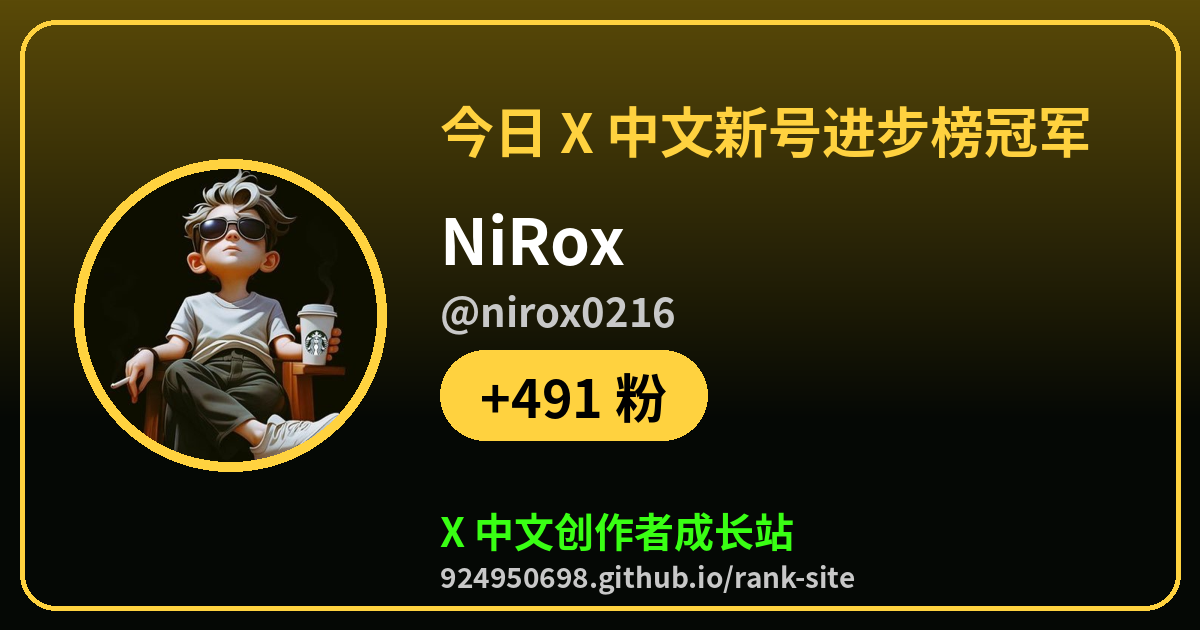
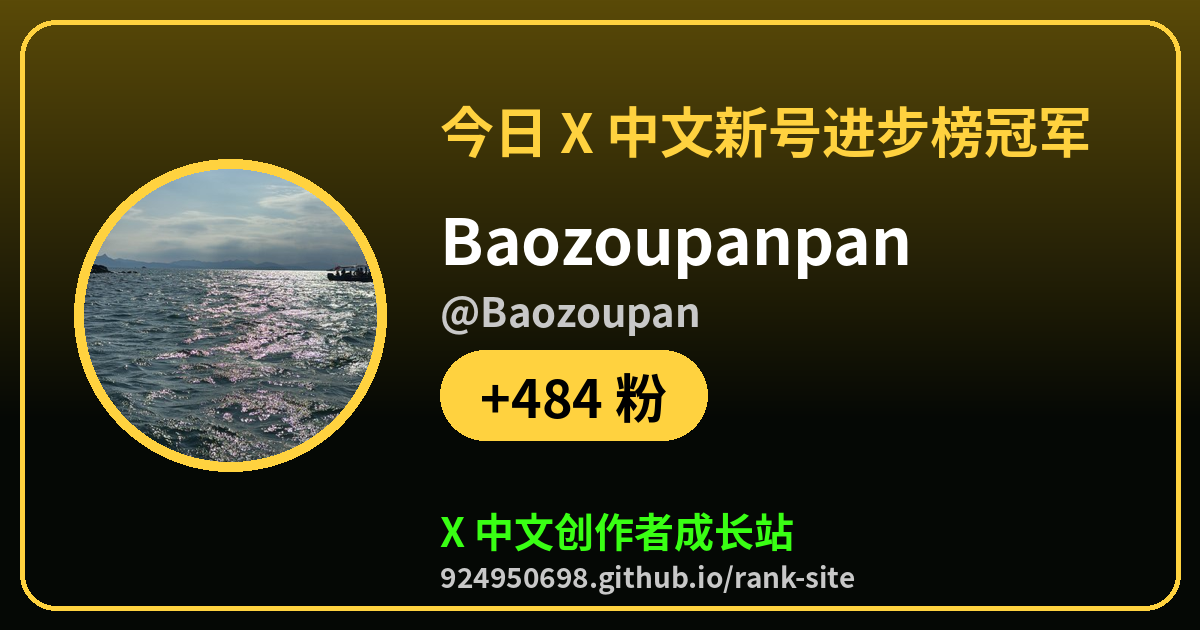
champ: 2026-10-18 16:30 CST

diff --git a/champ/rising.html b/champ/rising.html
@@ -1,7 +1,7 @@
 <!doctype html><html lang="zh-CN"><head><meta charset="utf-8"><meta name="viewport" content="width=device-width,initial-scale=1">
-<title>今日 X 中文新号进步榜冠军：NiRox（@nirox0216）</title><meta name="description" content="+491 粉，来看看今天谁在爆，你排第几">
-<meta property="og:type" content="website"><meta property="og:url" content="https://924950698.github.io/rank-site/champ/rising.html"><meta property="og:title" content="今日 X 中文新号进步榜冠军：NiRox（@nirox0216）"><meta property="og:description" content="+491 粉，来看看今天谁在爆，你排第几">
-<meta property="og:image" content="https://924950698.github.io/rank-site/champ/rising.png?v=20261018T0704"><meta name="twitter:card" content="summary_large_image"><meta name="twitter:site" content="@tigerr3aue">
-<meta name="twitter:title" content="今日 X 中文新号进步榜冠军：NiRox（@nirox0216）"><meta name="twitter:description" content="+491 粉，来看看今天谁在爆，你排第几"><meta name="twitter:image" content="https://924950698.github.io/rank-site/champ/rising.png?v=20261018T0704">
-<meta http-equiv="refresh" content="0;url=https://924950698.github.io/rank-site/?champ=nirox0216&amp;board=rising#rank"><script>location.replace("https://924950698.github.io/rank-site/?champ=nirox0216&board=rising#rank")</script></head>
-<body style="background:#000;color:#fff;font-family:sans-serif;text-align:center;padding:40px"><a href="https://924950698.github.io/rank-site/?champ=nirox0216&amp;board=rising#rank" style="color:#39ff14">去 X 中文创作者成长站看冠军卡片</a></body></html>
+<title>今日 X 中文新号进步榜冠军：Baozoupanpan（@Baozoupan）</title><meta name="description" content="+484 粉，来看看今天谁在爆，你排第几">
+<meta property="og:type" content="website"><meta property="og:url" content="https://924950698.github.io/rank-site/champ/rising.html"><meta property="og:title" content="今日 X 中文新号进步榜冠军：Baozoupanpan（@Baozoupan）"><meta property="og:description" content="+484 粉，来看看今天谁在爆，你排第几">
+<meta property="og:image" content="https://924950698.github.io/rank-site/champ/rising.png?v=20261018T0802"><meta name="twitter:card" content="summary_large_image"><meta name="twitter:site" content="@tigerr3aue">
+<meta name="twitter:title" content="今日 X 中文新号进步榜冠军：Baozoupanpan（@Baozoupan）"><meta name="twitter:description" content="+484 粉，来看看今天谁在爆，你排第几"><meta name="twitter:image" content="https://924950698.github.io/rank-site/champ/rising.png?v=20261018T0802">
+<meta http-equiv="refresh" content="0;url=https://924950698.github.io/rank-site/?champ=Baozoupan&amp;board=rising#rank"><script>location.replace("https://924950698.github.io/rank-site/?champ=Baozoupan&board=rising#rank")</script></head>
+<body style="background:#000;color:#fff;font-family:sans-serif;text-align:center;padding:40px"><a href="https://924950698.github.io/rank-site/?champ=Baozoupan&amp;board=rising#rank" style="color:#39ff14">去 X 中文创作者成长站看冠军卡片</a></body></html>

diff --git a/champ/exposure.html b/champ/exposure.html
@@ -1,7 +1,7 @@
 <!doctype html><html lang="zh-CN"><head><meta charset="utf-8"><meta name="viewport" content="width=device-width,initial-scale=1">
 <title>今日 X 中文曝光榜冠军：🍭吃货不怕胖（@Jadtrrguson）</title><meta name="description" content="6.8k 曝光，来看看今天谁在爆，你排第几">
 <meta property="og:type" content="website"><meta property="og:url" content="https://924950698.github.io/rank-site/champ/exposure.html"><meta property="og:title" content="今日 X 中文曝光榜冠军：🍭吃货不怕胖（@Jadtrrguson）"><meta property="og:description" content="6.8k 曝光，来看看今天谁在爆，你排第几">
-<meta property="og:image" content="https://924950698.github.io/rank-site/champ/exposure.png?v=20261018T0704"><meta name="twitter:card" content="summary_large_image"><meta name="twitter:site" content="@tigerr3aue">
-<meta name="twitter:title" content="今日 X 中文曝光榜冠军：🍭吃货不怕胖（@Jadtrrguson）"><meta name="twitter:description" content="6.8k 曝光，来看看今天谁在爆，你排第几"><meta name="twitter:image" content="https://924950698.github.io/rank-site/champ/exposure.png?v=20261018T0704">
+<meta property="og:image" content="https://924950698.github.io/rank-site/champ/exposure.png?v=20261018T0802"><meta name="twitter:card" content="summary_large_image"><meta name="twitter:site" content="@tigerr3aue">
+<meta name="twitter:title" content="今日 X 中文曝光榜冠军：🍭吃货不怕胖（@Jadtrrguson）"><meta name="twitter:description" content="6.8k 曝光，来看看今天谁在爆，你排第几"><meta name="twitter:image" content="https://924950698.github.io/rank-site/champ/exposure.png?v=20261018T0802">
 <meta http-equiv="refresh" content="0;url=https://924950698.github.io/rank-site/?champ=Jadtrrguson&amp;board=exposure#rank"><script>location.replace("https://924950698.github.io/rank-site/?champ=Jadtrrguson&board=exposure#rank")</script></head>
 <body style="background:#000;color:#fff;font-family:sans-serif;text-align:center;padding:40px"><a href="https://924950698.github.io/rank-site/?champ=Jadtrrguson&amp;board=exposure#rank" style="color:#39ff14">去 X 中文创作者成长站看冠军卡片</a></body></html>

diff --git a/champ/comments.html b/champ/comments.html
@@ -1,7 +1,7 @@
 <!doctype html><html lang="zh-CN"><head><meta charset="utf-8"><meta name="viewport" content="width=device-width,initial-scale=1">
 <title>今日 X 中文评论榜冠军：🍭吃货不怕胖（@Jadtrrguson）</title><meta name="description" content="61 评论，来看看今天谁在爆，你排第几">
 <meta property="og:type" content="website"><meta property="og:url" content="https://924950698.github.io/rank-site/champ/comments.html"><meta property="og:title" content="今日 X 中文评论榜冠军：🍭吃货不怕胖（@Jadtrrguson）"><meta property="og:description" content="61 评论，来看看今天谁在爆，你排第几">
-<meta property="og:image" content="https://924950698.github.io/rank-site/champ/comments.png?v=20261018T0704"><meta name="twitter:card" content="summary_large_image"><meta name="twitter:site" content="@tigerr3aue">
-<meta name="twitter:title" content="今日 X 中文评论榜冠军：🍭吃货不怕胖（@Jadtrrguson）"><meta name="twitter:description" content="61 评论，来看看今天谁在爆，你排第几"><meta name="twitter:image" content="https://924950698.github.io/rank-site/champ/comments.png?v=20261018T0704">
+<meta property="og:image" content="https://924950698.github.io/rank-site/champ/comments.png?v=20261018T0802"><meta name="twitter:card" content="summary_large_image"><meta name="twitter:site" content="@tigerr3aue">
+<meta name="twitter:title" content="今日 X 中文评论榜冠军：🍭吃货不怕胖（@Jadtrrguson）"><meta name="twitter:description" content="61 评论，来看看今天谁在爆，你排第几"><meta name="twitter:image" content="https://924950698.github.io/rank-site/champ/comments.png?v=20261018T0802">
 <meta http-equiv="refresh" content="0;url=https://924950698.github.io/rank-site/?champ=Jadtrrguson&amp;board=comments#rank"><script>location.replace("https://924950698.github.io/rank-site/?champ=Jadtrrguson&board=comments#rank")</script></head>
 <body style="background:#000;color:#fff;font-family:sans-serif;text-align:center;padding:40px"><a href="https://924950698.github.io/rank-site/?champ=Jadtrrguson&amp;board=comments#rank" style="color:#39ff14">去 X 中文创作者成长站看冠军卡片</a></body></html>

diff --git a/champ/growth.html b/champ/growth.html
@@ -1,7 +1,7 @@
 <!doctype html><html lang="zh-CN"><head><meta charset="utf-8"><meta name="viewport" content="width=device-width,initial-scale=1">
 <title>今日 X 中文涨粉榜冠军：NiRox（@nirox0216）</title><meta name="description" content="+491 粉，来看看今天谁在爆，你排第几">
 <meta property="og:type" content="website"><meta property="og:url" content="https://924950698.github.io/rank-site/champ/growth.html"><meta property="og:title" content="今日 X 中文涨粉榜冠军：NiRox（@nirox0216）"><meta property="og:description" content="+491 粉，来看看今天谁在爆，你排第几">
-<meta property="og:image" content="https://924950698.github.io/rank-site/champ/growth.png?v=20261018T0704"><meta name="twitter:card" content="summary_large_image"><meta name="twitter:site" content="@tigerr3aue">
-<meta name="twitter:title" content="今日 X 中文涨粉榜冠军：NiRox（@nirox0216）"><meta name="twitter:description" content="+491 粉，来看看今天谁在爆，你排第几"><meta name="twitter:image" content="https://924950698.github.io/rank-site/champ/growth.png?v=20261018T0704">
+<meta property="og:image" content="https://924950698.github.io/rank-site/champ/growth.png?v=20261018T0802"><meta name="twitter:card" content="summary_large_image"><meta name="twitter:site" content="@tigerr3aue">
+<meta name="twitter:title" content="今日 X 中文涨粉榜冠军：NiRox（@nirox0216）"><meta name="twitter:description" content="+491 粉，来看看今天谁在爆，你排第几"><meta name="twitter:image" content="https://924950698.github.io/rank-site/champ/growth.png?v=20261018T0802">
 <meta http-equiv="refresh" content="0;url=https://924950698.github.io/rank-site/?champ=nirox0216&amp;board=growth#rank"><script>location.replace("https://924950698.github.io/rank-site/?champ=nirox0216&board=growth#rank")</script></head>
 <body style="background:#000;color:#fff;font-family:sans-serif;text-align:center;padding:40px"><a href="https://924950698.github.io/rank-site/?champ=nirox0216&amp;board=growth#rank" style="color:#39ff14">去 X 中文创作者成长站看冠军卡片</a></body></html>
